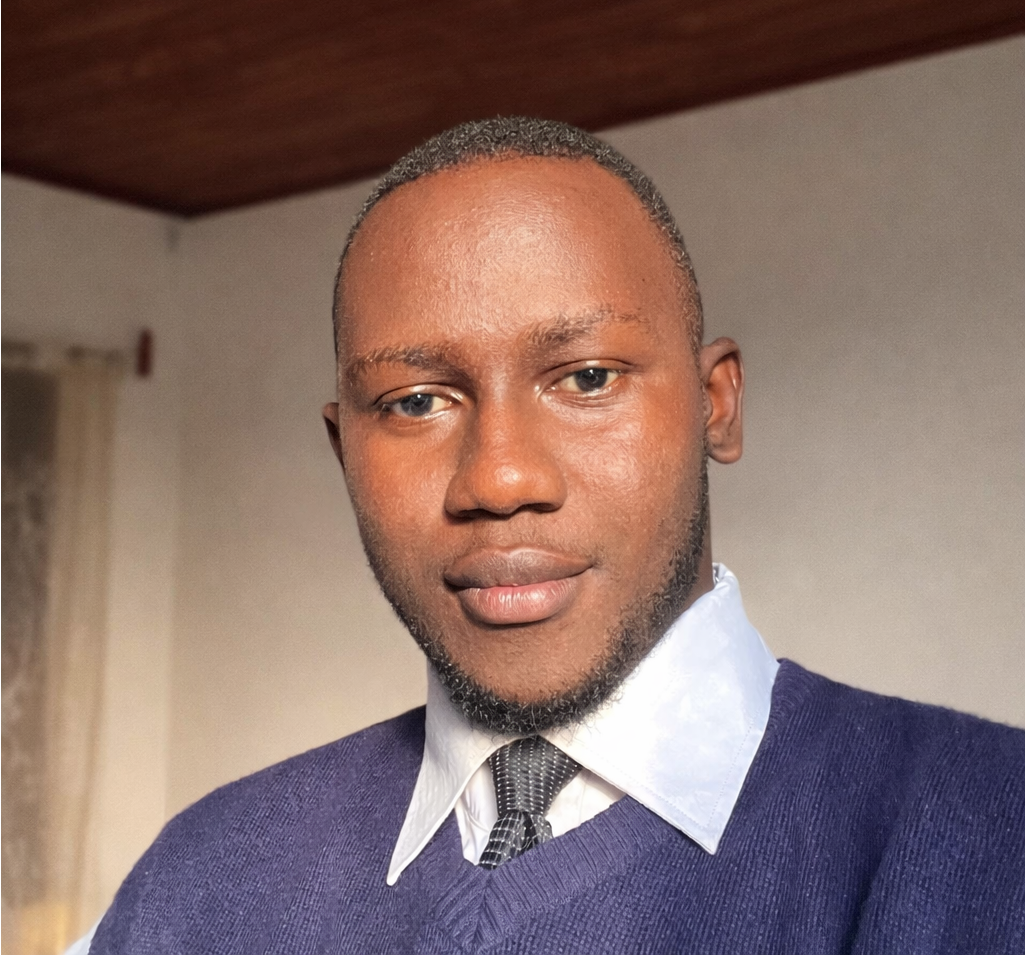
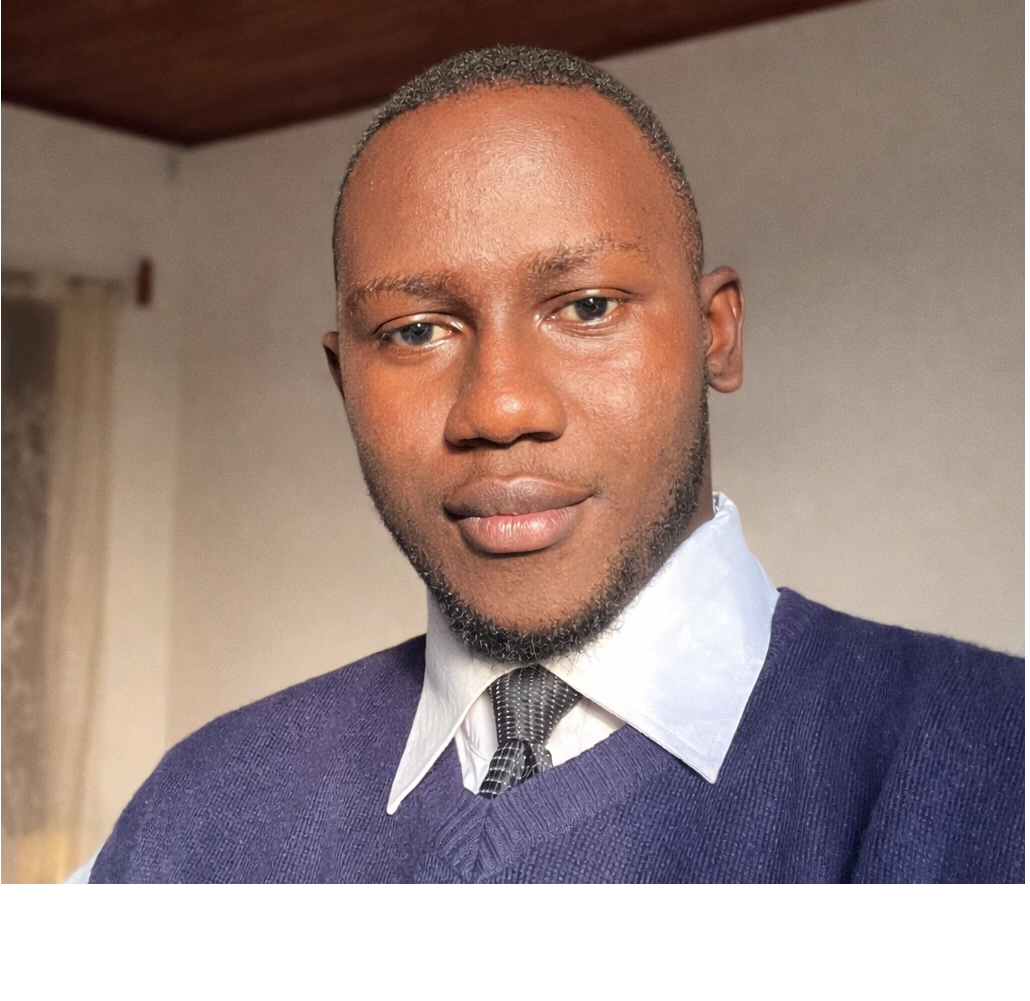
new team member: carine

diff --git a/public/styles.css b/public/styles.css
@@ -564,6 +564,142 @@ body.nav-open{
   transform:translateY(-1px);
 }
 
+/* ===== SOCIAL SECTION ===== */
+
+.social-feed-section {
+  background: linear-gradient(180deg, rgba(64,145,108,0.08), transparent);
+}
+
+.social-header {
+  max-width: 760px;
+  margin: 0 auto 32px;
+  text-align: center;
+}
+
+/* GRID */
+.social-posts-grid {
+  display: grid;
+  grid-template-columns: 1fr;
+  gap: 24px;
+}
+
+@media (min-width: 900px) {
+  .social-posts-grid {
+    grid-template-columns: repeat(2, 1fr);
+  }
+}
+
+/* CARD */
+.social-post-card {
+  display: flex;
+  flex-direction: column;
+  background: #fff;
+  border: 1px solid var(--border);
+  border-radius: 18px;
+  overflow: hidden;
+  box-shadow: var(--shadow);
+  transition: 0.25s ease;
+  /* height: 100%; */
+}
+
+.social-post-card:hover {
+  transform: translateY(-6px);
+  box-shadow: var(--hover-shadow);
+}
+
+/* HEADER */
+.social-card-header {
+  padding: 14px 16px;
+  border-bottom: 1px solid var(--border);
+  background: rgba(64,145,108,0.06);
+}
+
+.social-card-header h3 {
+  margin: 0;
+  font-size: 15px;
+  font-weight: 700;
+  color: var(--green-700);
+  display: flex;
+  align-items: center;
+  gap: 8px;
+}
+
+/* BODY */
+.social-card-body {
+  flex: 1;
+  display: flex;
+  overflow: hidden;
+}
+
+/* EMBED WRAPPER */
+.social-embed-wrapper {
+  width: 100%;
+  height: 900px; /* default height, can be adjusted per platform */
+  display: flex;
+  justify-content: center;
+  align-items: center;
+  overflow: hidden;
+}
+
+/* IFRAME NORMALIZATION */
+.social-embed-wrapper iframe {
+  width: 100% !important;
+  height: 100% !important;
+  border: none;
+}
+
+/* FACEBOOK */
+.facebook-embed iframe {
+  min-width: 100%;
+}
+
+/* TWITTER */
+.twitter-embed {
+  padding: 16px;
+  overflow-y: auto;
+}
+
+.twitter-tweet {
+  margin: 0 auto !important;
+}
+
+/* INSTAGRAM */
+.instagram-embed iframe {
+  height: 100% !important;
+}
+
+/* CTA */
+.social-cta {
+  margin-top: 32px;
+  text-align: center;
+}
+
+.footer-social {
+  display: flex;
+  justify-content: center;
+  gap: 12px;
+  margin-top: 10px;
+}
+
+.footer-social .soc {
+  width: 40px;
+  height: 40px;
+  border-radius: 10px;
+  display: flex;
+  align-items: center;
+  justify-content: center;
+  background: rgba(64,145,108,0.12);
+  color: var(--green-700);
+  transition: 0.2s ease;
+  text-decoration: none;
+}
+
+.footer-social .soc:hover {
+  background: var(--green-600);
+  color: #fff;
+  transform: translateY(-2px);
+}
+
 /* =========
    Footer
 ========= */

diff --git a/public/team.html b/public/team.html
@@ -135,18 +135,41 @@
             </article>
 
             <article class="team-card">
-              <div class="team-photo placeholder-photo">TC</div>
+              <img
+                src="assets/images/team/carine.png"
+                alt="TSIAGUH Carine Mbwame"
+                class="team-photo"
+                loading="lazy"
+                decoding="async"
+              />
               <div class="team-content">
-                <h3 class="team-name">Tsiaguh Mbwame Carine</h3>
+                <h3 class="team-name">TSIAGUH CARINE MBWAME</h3>
                 <p class="team-title">Advisory Board Member</p>
                 <p class="team-description">
                   Provides strategic guidance and mentorship, helping BYC
                   strengthen accountability, program quality, and ethical
                   leadership across its work.
                 </p>
-                <p class="muted" style="margin: 16px 0 0">
-                  Social links coming soon.
-                </p>
+                <div class="social-links">
+                  <a
+                    href="#"
+                    target="_blank"
+                    rel="noopener"
+                    class="social-link"
+                    title="LinkedIn"
+                  >
+                    <i class="fab fa-linkedin-in"></i>
+                  </a>
+                  <a
+                    href="#"
+                    target="_blank"
+                    rel="noopener"
+                    class="social-link"
+                    title="Instagram"
+                  >
+                    <i class="fab fa-instagram"></i>
+                  </a>
+                </div>
               </div>
             </article>
           </div>
@@ -174,6 +197,35 @@
                   climate advocacy that connects local action with wider policy
                   conversations.
                 </p>
+                                <div class="social-links">
+                  <a
+                    href="https://www.linkedin.com/in/fokou/"
+                    target="_blank"
+                    rel="noopener"
+                    class="social-link"
+                    title="LinkedIn"
+                  >
+                    <i class="fab fa-linkedin-in"></i>
+                  </a>
+                  <a
+                    href="https://x.com/fokouhilux1"
+                    target="_blank"
+                    rel="noopener"
+                    class="social-link"
+                    title="X"
+                  >
+                    <i class="fab fa-twitter"></i>
+                  </a>
+                  <a
+                    href="https://instagram.com/hilux.me"
+                    target="_blank"
+                    rel="noopener"
+                    class="social-link"
+                    title="Instagram"
+                  >
+                    <i class="fab fa-instagram"></i>
+                  </a>
+                </div>
               </div>
             </article>
 
@@ -193,6 +245,26 @@
                   with practical digital, leadership, and problem-solving
                   skills.
                 </p>
+                                <div class="social-links">
+                  <a
+                    href="https://www.linkedin.com/in/baakeut-audrey-lydie-6388252a2?utm_source=share&utm_campaign=share_via&utm_content=profile&utm_medium=ios_app"
+                    target="_blank"
+                    rel="noopener"
+                    class="social-link"
+                    title="LinkedIn"
+                  >
+                    <i class="fab fa-linkedin-in"></i>
+                  </a>
+                  <a
+                    href="https://www.instagram.com/crazy_litzy1?igsh=YXpienI4aHF0cDZy&utm_source=qr"
+                    target="_blank"
+                    rel="noopener"
+                    class="social-link"
+                    title="Instagram"
+                  >
+                    <i class="fab fa-instagram"></i>
+                  </a>
+                </div>
               </div>
             </article>
 

diff --git a/public/index.html b/public/index.html
@@ -106,6 +106,60 @@
       </div>
     </section>
 
+    <section class="section social-feed-section">
+      <div class="container">
+        <div class="social-header">
+          <span class="badge">Live Updates</span>
+          <h2 class="h2" style="margin-top: 10px">Follow our work in real time</h2>
+          <p class="lead" style="margin: 0 auto">
+            See our latest updates from X (Twitter) in one place.
+          </p>
+        </div>
+
+        <div class="social-posts-grid" aria-label="Latest social posts">
+          <article class="social-post-card">
+            <div class="social-card-header">
+              <h3>X (Twitter)</h3>
+            </div>
+            <div class="social-card-body twitter-embed">
+              <blockquote class="twitter-tweet" data-dnt="true">
+                <p lang="en" dir="ltr">
+                  Beacon Youth Collective joins the
+                  <a href="https://twitter.com/UNFCCC">@UNFCCC</a>
+                  Paris Committee on Capacity-building (PCCB) Network.<br /><br />
+                  Looking forward to collaborating.
+                </p>
+                &mdash; Beacon Youth Collective (@BeaconYouths)
+                <a href="https://twitter.com/BeaconYouths/status/2036352318451429728">
+                  March 24, 2026
+                </a>
+              </blockquote>
+            </div>
+          </article>
+      <article class="social-post-card">
+  <div class="social-card-header">
+    <h3>Instagram</h3>
+  </div>
+
+  <div class="social-card-body">
+    <div class="social-embed-wrapper instagram-embed">
+
+          <blockquote class="instagram-media" data-instgrm-captioned data-instgrm-permalink="https://www.instagram.com/p/DO9PxZJD_gA/?utm_source=ig_embed&amp;utm_campaign=loading" data-instgrm-version="14" style=" background:#FFF; border:0; border-radius:3px; box-shadow:0 0 1px 0 rgba(0,0,0,0.5),0 1px 10px 0 rgba(0,0,0,0.15); margin: 1px; max-width:540px; min-width:326px; padding:0; width:99.375%; width:-webkit-calc(100% - 2px); width:calc(100% - 2px);"><div style="padding:16px;"> <a href="https://www.instagram.com/p/DO9PxZJD_gA/?utm_source=ig_embed&amp;utm_campaign=loading" style=" background:#FFFFFF; line-height:0; padding:0 0; text-align:center; text-decoration:none; width:100%;" target="_blank"> <div style=" display: flex; flex-direction: row; align-items: center;"> <div style="background-color: #F4F4F4; border-radius: 50%; flex-grow: 0; height: 40px; margin-right: 14px; width: 40px;"></div> <div style="display: flex; flex-direction: column; flex-grow: 1; justify-content: center;"> <div style=" background-color: #F4F4F4; border-radius: 4px; flex-grow: 0; height: 14px; margin-bottom: 6px; width: 100px;"></div> <div style=" background-color: #F4F4F4; border-radius: 4px; flex-grow: 0; height: 14px; width: 60px;"></div></div></div><div style="padding: 19% 0;"></div> <div style="display:block; height:50px; margin:0 auto 12px; width:50px;"><svg width="50px" height="50px" viewBox="0 0 60 60" version="1.1" xmlns="https://www.w3.org/2000/svg" xmlns:xlink="https://www.w3.org/1999/xlink"><g stroke="none" stroke-width="1" fill="none" fill-rule="evenodd"><g transform="translate(-511.000000, -20.000000)" fill="#000000"><g><path d="M556.869,30.41 C554.814,30.41 553.148,32.076 553.148,34.131 C553.148,36.186 554.814,37.852 556.869,37.852 C558.924,37.852 560.59,36.186 560.59,34.131 C560.59,32.076 558.924,30.41 556.869,30.41 M541,60.657 C535.114,60.657 530.342,55.887 530.342,50 C530.342,44.114 535.114,39.342 541,39.342 C546.887,39.342 551.658,44.114 551.658,50 C551.658,55.887 546.887,60.657 541,60.657 M541,33.886 C532.1,33.886 524.886,41.1 524.886,50 C524.886,58.899 532.1,66.113 541,66.113 C549.9,66.113 557.115,58.899 557.115,50 C557.115,41.1 549.9,33.886 541,33.886 M565.378,62.101 C565.244,65.022 564.756,66.606 564.346,67.663 C563.803,69.06 563.154,70.057 562.106,71.106 C561.058,72.155 560.06,72.803 558.662,73.347 C557.607,73.757 556.021,74.244 553.102,74.378 C549.944,74.521 548.997,74.552 541,74.552 C533.003,74.552 532.056,74.521 528.898,74.378 C525.979,74.244 524.393,73.757 523.338,73.347 C521.94,72.803 520.942,72.155 519.894,71.106 C518.846,70.057 518.197,69.06 517.654,67.663 C517.244,66.606 516.755,65.022 516.623,62.101 C516.479,58.943 516.448,57.996 516.448,50 C516.448,42.003 516.479,41.056 516.623,37.899 C516.755,34.978 517.244,33.391 517.654,32.338 C518.197,30.938 518.846,29.942 519.894,28.894 C520.942,27.846 521.94,27.196 523.338,26.654 C524.393,26.244 525.979,25.756 528.898,25.623 C532.057,25.479 533.004,25.448 541,25.448 C548.997,25.448 549.943,25.479 553.102,25.623 C556.021,25.756 557.607,26.244 558.662,26.654 C560.06,27.196 561.058,27.846 562.106,28.894 C563.154,29.942 563.803,30.938 564.346,32.338 C564.756,33.391 565.244,34.978 565.378,37.899 C565.522,41.056 565.552,42.003 565.552,50 C565.552,57.996 565.522,58.943 565.378,62.101 M570.82,37.631 C570.674,34.438 570.167,32.258 569.425,30.349 C568.659,28.377 567.633,26.702 565.965,25.035 C564.297,23.368 562.623,22.342 560.652,21.575 C558.743,20.834 556.562,20.326 553.369,20.18 C550.169,20.033 549.148,20 541,20 C532.853,20 531.831,20.033 528.631,20.18 C525.438,20.326 523.257,20.834 521.349,21.575 C519.376,22.342 517.703,23.368 516.035,25.035 C514.368,26.702 513.342,28.377 512.574,30.349 C511.834,32.258 511.326,34.438 511.181,37.631 C511.035,40.831 511,41.851 511,50 C511,58.147 511.035,59.17 511.181,62.369 C511.326,65.562 511.834,67.743 512.574,69.651 C513.342,71.625 514.368,73.296 516.035,74.965 C517.703,76.634 519.376,77.658 521.349,78.425 C523.257,79.167 525.438,79.673 528.631,79.82 C531.831,79.965 532.853,80.001 541,80.001 C549.148,80.001 550.169,79.965 553.369,79.82 C556.562,79.673 558.743,79.167 560.652,78.425 C562.623,77.658 564.297,76.634 565.965,74.965 C567.633,73.296 568.659,71.625 569.425,69.651 C570.167,67.743 570.674,65.562 570.82,62.369 C570.966,59.17 571,58.147 571,50 C571,41.851 570.966,40.831 570.82,37.631"></path></g></g></g></svg></div><div style="padding-top: 8px;"> <div style=" color:#3897f0; font-family:Arial,sans-serif; font-size:14px; font-style:normal; font-weight:550; line-height:18px;">View this post on Instagram</div></div><div style="padding: 12.5% 0;"></div> <div style="display: flex; flex-direction: row; margin-bottom: 14px; align-items: center;"><div> <div style="background-color: #F4F4F4; border-radius: 50%; height: 12.5px; width: 12.5px; transform: translateX(0px) translateY(7px);"></div> <div style="background-color: #F4F4F4; height: 12.5px; transform: rotate(-45deg) translateX(3px) translateY(1px); width: 12.5px; flex-grow: 0; margin-right: 14px; margin-left: 2px;"></div> <div style="background-color: #F4F4F4; border-radius: 50%; height: 12.5px; width: 12.5px; transform: translateX(9px) translateY(-18px);"></div></div><div style="margin-left: 8px;"> <div style=" background-color: #F4F4F4; border-radius: 50%; flex-grow: 0; height: 20px; width: 20px;"></div> <div style=" width: 0; height: 0; border-top: 2px solid transparent; border-left: 6px solid #f4f4f4; border-bottom: 2px solid transparent; transform: translateX(16px) translateY(-4px) rotate(30deg)"></div></div><div style="margin-left: auto;"> <div style=" width: 0px; border-top: 8px solid #F4F4F4; border-right: 8px solid transparent; transform: translateY(16px);"></div> <div style=" background-color: #F4F4F4; flex-grow: 0; height: 12px; width: 16px; transform: translateY(-4px);"></div> <div style=" width: 0; height: 0; border-top: 8px solid #F4F4F4; border-left: 8px solid transparent; transform: translateY(-4px) translateX(8px);"></div></div></div> <div style="display: flex; flex-direction: column; flex-grow: 1; justify-content: center; margin-bottom: 24px;"> <div style=" background-color: #F4F4F4; border-radius: 4px; flex-grow: 0; height: 14px; margin-bottom: 6px; width: 224px;"></div> <div style=" background-color: #F4F4F4; border-radius: 4px; flex-grow: 0; height: 14px; width: 144px;"></div></div></a><p style=" color:#c9c8cd; font-family:Arial,sans-serif; font-size:14px; line-height:17px; margin-bottom:0; margin-top:8px; overflow:hidden; padding:8px 0 7px; text-align:center; text-overflow:ellipsis; white-space:nowrap;"><a href="https://www.instagram.com/p/DO9PxZJD_gA/?utm_source=ig_embed&amp;utm_campaign=loading" style=" color:#c9c8cd; font-family:Arial,sans-serif; font-size:14px; font-style:normal; font-weight:normal; line-height:17px; text-decoration:none;" target="_blank">A post shared by Beacon Youth Collective - BYC (@beaconyouths)</a></p></div></blockquote>
+<script async src="//www.instagram.com/embed.js"></script>
+
+    </div>
+  </div>
+</article>
+
+        </div>
+        
+
+        <div class="social-cta">
+          <a class="btn" href="news.html">View all News</a>
+        </div>
+      </div>
+    </section>
+
     <section class="section">
       <div class="container grid grid-lg-2">
         <article class="card">
@@ -130,6 +184,9 @@
 
     <footer></footer>
 
+    <script async src="https://platform.twitter.com/widgets.js" charset="utf-8"></script>
     <script src="script.js"></script>
+    <script async src="https://www.instagram.com/embed.js"></script>
+<script async src="https://platform.twitter.com/widgets.js"></script>
   </body>
 </html>